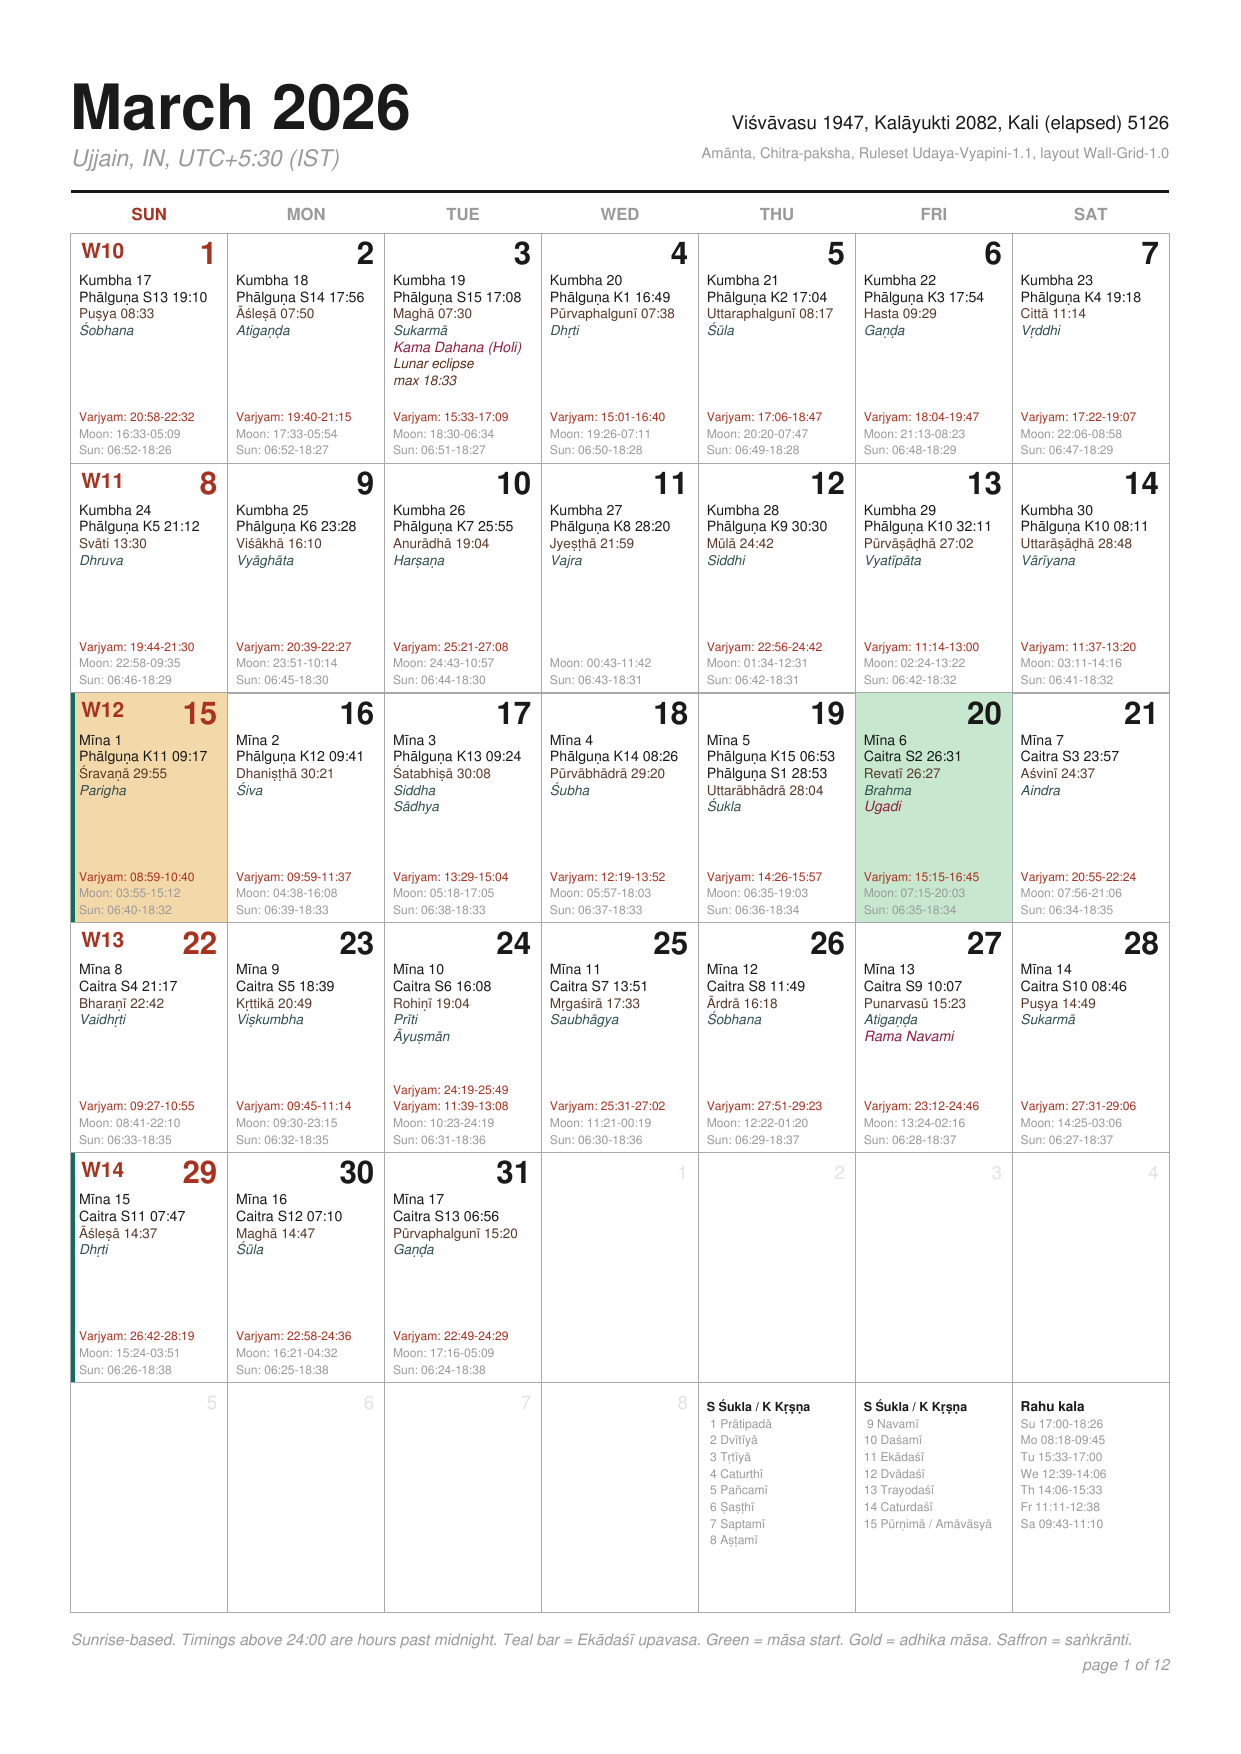
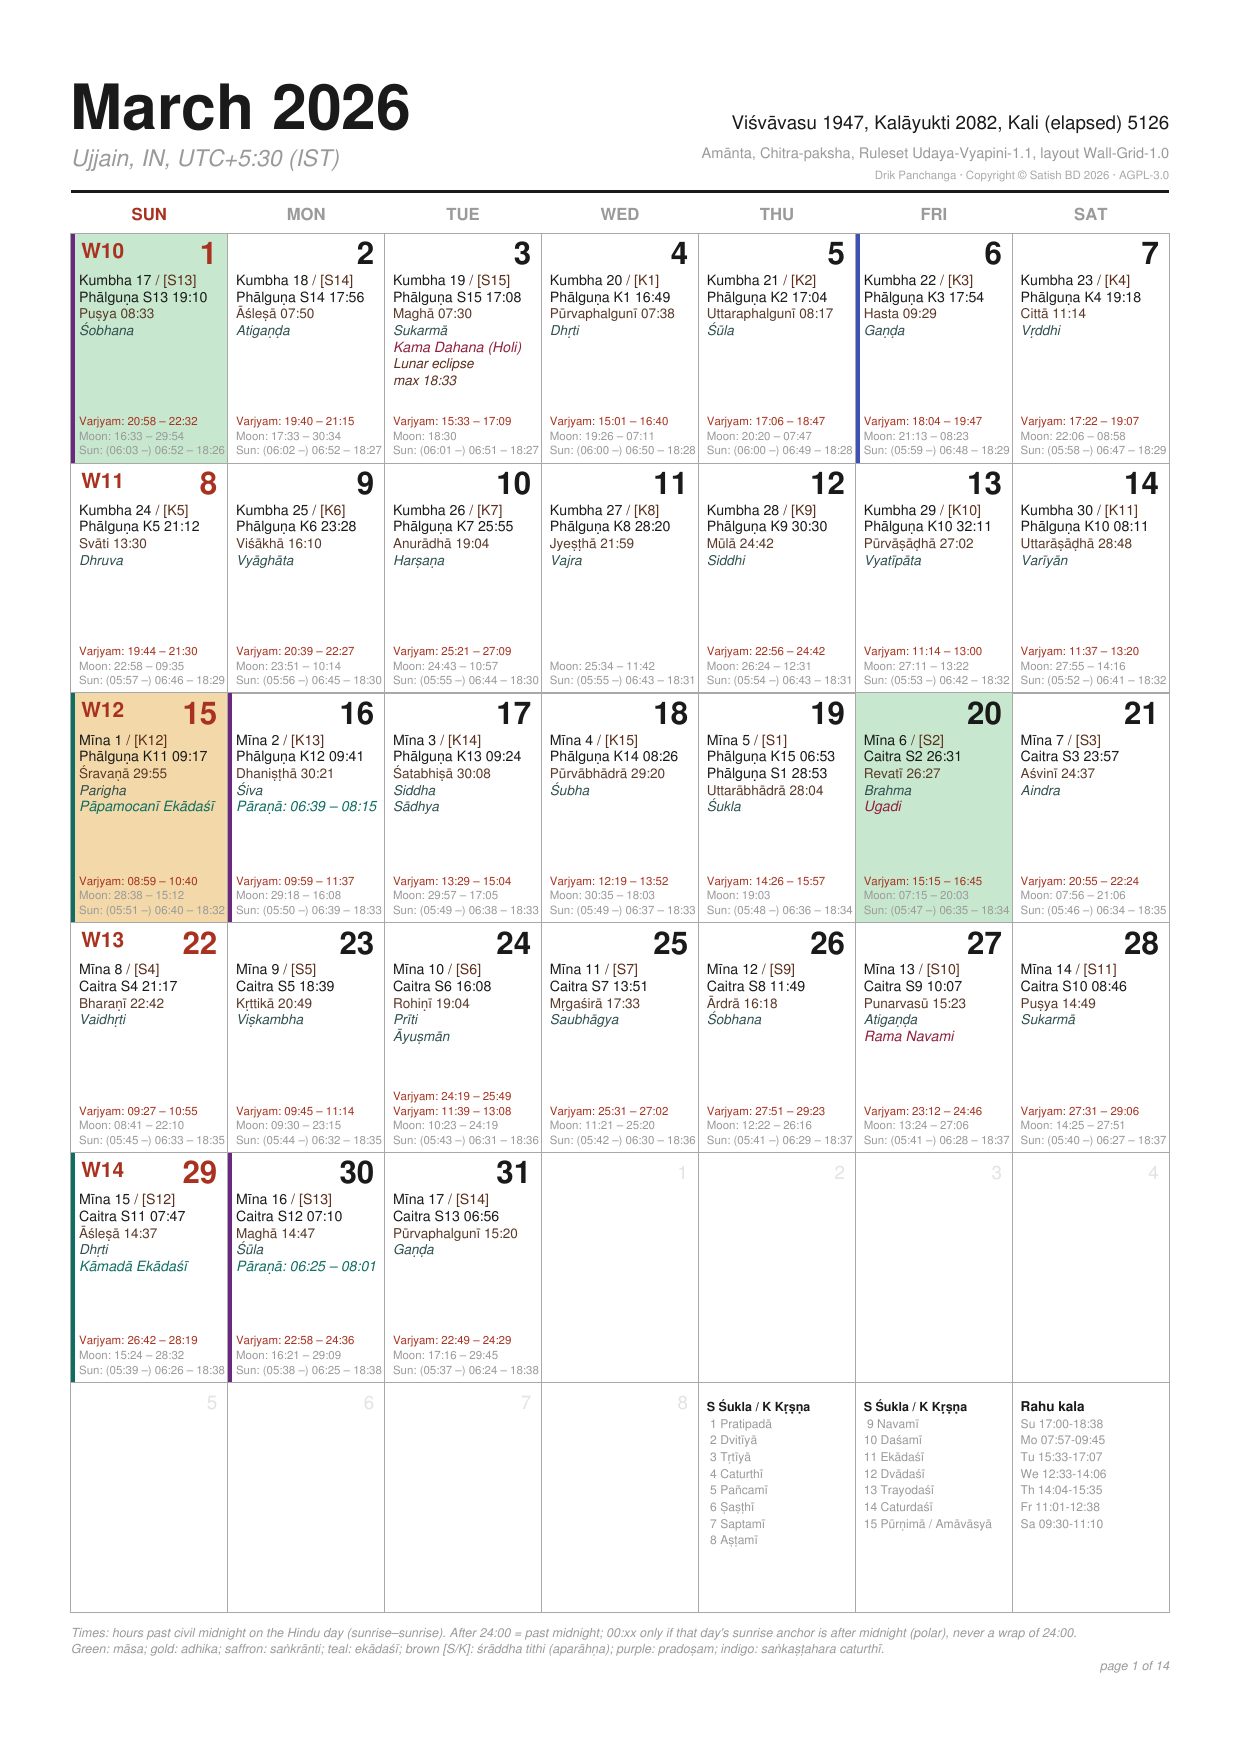
docs(calendar): document the lunar-year span and the year range
- README and docs/README.CALENDARS.md: --start YYYY is the Gregorian
  year holding the lunar year's Ugadi; the span runs through the month
  containing the last Phālguna day, so 12-14 whole months print. First
  month keeps the previous Phālguna and last month the next Chaitra,
  festivals included; consecutive years share one month.
- State the -3300..3300 PDF/ICS range, the sidereal drift that makes a
  few years before about -2950 hold zero or two Ugadis, and that
  --month purnimanta changes labels only, never the span.
- Regenerate the Ujjain screenshots from --start 2026: the one-page
  sample becomes mar2026_apr2027 (March 2026 - April 2027).
- panchanga.py: the lru_cache sizing comment says lunar-year build.
- Add docs/TODO.LUNAR-YEAR-CALENDARS.md, the completed checklist of
  the refactor and its implementation notes.

Assisted-by: qwen3.8-high

diff --git a/panchanga.py b/panchanga.py
@@ -423,7 +423,8 @@ def nakshatra_pada_unequal_system(longitude):
 
 
 # @lru_cache memoizes expensive Swiss Ephemeris calls (longitudes, rise/set,
-# new/full moon). Cache sizes fit one 14-month PDF build while bounding memory
+# new/full moon). Cache sizes fit one lunar-year PDF build (up to 14 printed
+# months plus the day pad) while bounding memory
 # for long-running web servers that serve many distinct (city, date) queries.
 @lru_cache(maxsize=65536)
 def _planet_longitude_cached(ayanamsa, coord_flag, jd, planet):

diff --git a/docs/TODO.LUNAR-YEAR-CALENDARS.md b/docs/TODO.LUNAR-YEAR-CALENDARS.md
@@ -1,0 +1,87 @@
+# TODO: lunar-year PDF calendars
+
+Plan: [PLAN.LUNAR-YEAR-CALENDARS.md](PLAN.LUNAR-YEAR-CALENDARS.md)
+
+## 1. Core helpers (`generate_panchanga_calendar.py`)
+
+- [x] `require_start_year(text) -> int` — `-\d{1,4}` or `\d{4}`; range `-3300 ... 3300`; clear reject of `YYYY-MM`
+- [x] `lunar_year_months(start_year, location, coordinate_selection) -> [(y, m), ...]`
+  - [x] window 1 Nov `Y-1` … 31 Dec `Y`; exactly one Ugadi rule (§2.1, §4.2)
+  - [x] next-Ugadi window, last day = `next_ugadi - 1`, month list via `_month_sequence`
+  - [x] error names the Ugadi dates found (zero or two)
+  - [x] takes `coordinate_calculation_lock`, sets coordinate selection
+- [x] `daily_records_between(first, last, location)`; `daily_records(months, ...)` wraps it
+- [x] delete `require_supported_span`, `CONTEXT_MARGIN_MONTHS`, `context_month_sequence`, `context_month_range`
+
+## 2. Day pad in builders (§4.5)
+
+- [x] one-page: records `first - 32` … `last + 1`; `target_dates` = printed days
+- [x] monthly: `collect_context` reads the same pad
+
+## 3. One-page CLI + builder
+
+- [x] `build_pdf(location, months, output_path, ...)`
+- [x] `default_output_path(location, months, ...)`; names per §3.4
+- [x] `--start YYYY` help text; `main()` resolves once, then path + build
+
+## 4. Monthly CLI + builder
+
+- [x] `build_monthly_pdf(location, months, output_path, ...)`; pages = `len(months)`
+- [x] title / footer total / module docstring
+- [x] `--start YYYY`, `default_monthly_output_path(location, months, ...)`
+
+## 5. ICS + web
+
+- [x] `webapp/ics_service.py`: year in, resolve under lock, BCE 400 stays, docstring
+- [x] `webapp/pdf_service.py`: parse year, resolve, then filename
+- [x] `webapp/app.py`: ICS `start=YYYY`
+- [x] `webapp/cgi_handlers.py`: 405 message
+- [x] `webapp/templates/index.html`: year input (`pattern`), labels, hints, JS default, CSS selector
+
+## 6. Tests
+
+- [x] parser cases (§8.1)
+- [x] resolver fixtures 2026/2027/2028/2029/2030 (§8.2), length invariant, purnimanta no-op
+- [x] builders: columns/pages == `len(months)`, filenames
+- [x] range edges `-3300` / `3300`; zero-or-two-Ugadi errors (§8.8–9)
+- [x] festival outside lunar year (`Ugadi: Mar 20,Apr 07`) (§8.10)
+- [x] day pad cases: solar day 17 on 2026-03-01; 1905 parana (§8.11)
+- [x] rewrite fixtures that used `month_range` / `context_month_range` (`test_pdf_layout`, `test_festival_rules`, `test_monthly_calendar`)
+- [x] `test_custom_location.py`: `BceStartMonthTests` → year tests; `-5000-12` out of range
+- [x] `test_bce_ce_boundary.py`, `test_day_panchanga.py` (`start=9999-12` → 400 from range), `test_pdf_service.py`
+- [x] `test_deep_bce.py`: `DEEPEST = Date(-3301, 11, 1)`
+
+## 7. CI / scripts
+
+- [x] `.github/workflows/ci.yml` `--start 2026` ×2 + expected filenames
+- [x] `scripts/ci_smoke_http.sh` `start=2026` / `start=2023`
+- [x] `scripts/setup_venv.sh`
+
+## 8. Docs + samples
+
+- [x] `README.md`, `docs/README.CALENDARS.md`, `docs/README.pypi.md`
+- [x] `panchanga.py` cache comment (§3.5)
+- [x] regenerate `samples/*.png`, rename mar2026→apr2027 link
+
+## 9. Final sweep
+
+- [x] grep for `YYYY-MM`, `--start 20`, `start=20`, “14 month”, “fourteen”, “12-month”, “twelve”, “12 page”, “First month”, `type="month"` (outside `experimental/`)
+- [x] full `python -m unittest discover`
+- [x] breaking-change commit message (§10)
+
+## Done (deviations noted)
+
+- All items above are complete; 610 tests pass (`python -m unittest discover -s tests -t .`).
+- `require_start_year` also rejects `-3301/3301` *before* any records are
+  computed, as the plan asks.
+- Extra lock added while implementing: `tests/test_lunar_year_calendar.py`
+  covers parser grammar, the five measured fixtures, -3300/3300 edges for
+  every mode, the Revati two-Ugadi / no-Ugadi errors, the 32/1-day pad
+  (solar day 17 at 2026-03-01; 1905 pāraṇā), shared month across consecutive
+  years, and the adhika-Chaitra 2029 start.
+- `lunar_year_boundaries()` is public: callers needing the exact Ugadi and
+  last Phālguna day (tests, future footers) get them without re-scan logic.
+- Samples regenerated at 150 dpi from `--start 2026`:
+  `ujjain_panchanga_mar2026_apr2027.png` (replaces `..._mar2026_mar2027.png`)
+  and `ujjain_monthly_march2026.png`.
+- `attach_option_values` docstring updated to `--start -0500`.

diff --git a/docs/README.CALENDARS.md b/docs/README.CALENDARS.md
@@ -4,10 +4,16 @@ Calendar PDFs — details
 Two PDF layouts share the same computation, colours, and markers:
 
 * **One-page** (`generate_panchanga_calendar.py` / `drik-panchanga-short`):
-  14 consecutive months on a single A4 landscape sheet.
+  one lunar year on a single A4 landscape sheet.
 * **Monthly wall calendar** (`generate_monthly_calendar.py` /
-  `drik-panchanga-long`): one A4 portrait grid page per month, 12 pages,
-  with wider rows suited for reading a full month at a glance.
+  `drik-panchanga-long`): one A4 portrait grid page per month of the lunar
+  year, with wider rows suited for reading a full month at a glance.
+
+Both layouts print the same span, and its length is never fixed. The
+amānta cāndramāna year that `--start YYYY` names runs from the month
+containing that year's **Ugadi** (Chaitra S1; adhika Chaitra when present)
+through the month containing the **last day of Phālguna** — 12, 13 or 14
+whole Gregorian months.
 
 The monthly calendar shares the computation and festival/eclipse markers with
 the one-page calendar, with its own palette.
@@ -18,13 +24,22 @@ Common options
 ```
 --city "Ujjain, IN"      # data/cities.json; country code disambiguates
 --place -13.4,70,5.5     # instead of --city: LAT,LON,TZ (see below)
---start 2026-06          # first month of the span (14 or 12 months)
---start -500-03          # BCE: prefix the astronomical year with '-'
+--start 2026             # Gregorian year holding the lunar year's Ugadi
+--start=-0500            # BCE: prefix the astronomical year with '-'
 --month amanta|purnimanta
 --ayanamsa citra|revati|rohini|pushya|mula|krishnamurti|raman|tropical
 --festivals FILE.cfg
 -o, --output FILE.pdf      # short: -o FILE.pdf
 ```
+
+`--start` takes an astronomical year (year `0000` is 1 BCE) and the lunar year
+in it; the month is never asked for. PDF and iCal years run `-3300 ... 3300`
+for every ayanāṃśa — in sidereal modes Ugadi drifts about a day later every
+70–80 years, so a few years before about -2950 hold two Ugadis (or none) and
+are refused with a message naming the dates. Because whole months print, the
+first month also shows the previous year's Phālguna and the last month the next
+year's Chaitra, with their festivals; consecutive years share one month.
+`--month purnimanta` changes only the māsa labels and badges, not the span.
 
 `--place` takes three comma-separated decimal numbers instead of a city name:
 latitude (negative = south), longitude (east = positive), and the timezone as a
@@ -122,14 +137,15 @@ Festival dates themselves do not flip with `--month`: the catalog uses fixed
 amānta month numbers so a named observance stays on the same civil day in
 both display modes.
 
-Example: Ujjain, March 2026 through March 2027
-----------------------------------------------
+Example: Ujjain, lunar year 2026 (March 2026 – April 2027)
+---------------------------------------------------------
 
-One-page layout:
+`--start 2026` resolves to Ugadi 20 Mar 2026 through 6 Apr 2027, so the
+fourteen printed months are March 2026 to April 2027:
 
-![Ujjain Panchanga, March 2026 through March 2027](../samples/ujjain_panchanga_mar2026_mar2027.png)
+![Ujjain Panchanga, March 2026 through April 2027](../samples/ujjain_panchanga_mar2026_apr2027.png)
 
-Monthly layout (March 2026 page):
+Monthly layout (first page of the same year, March 2026):
 
 <img
   src="../samples/ujjain_monthly_march2026.png"

diff --git a/README.md b/README.md
@@ -106,15 +106,24 @@ Two layouts, usable either from a repository checkout
 (`python generate_*.py ...`) or after `pip install "drik-panchanga[pdf]"`:
 
 ```
-drik-panchanga-short --city Ujjain --start 2026-06    # one-page A4, 14 months
-drik-panchanga-long  --city Ujjain --start 2026-03    # 12-page wall calendar
-drik-panchanga-short --city Ujjain --start -500-03    # BCE: '-' prefixes the year
+drik-panchanga-short --city Ujjain --start 2026    # one-page A4, one lunar year
+drik-panchanga-long  --city Ujjain --start 2026    # wall calendar, one page per month
+drik-panchanga-short --city Ujjain --start=-500    # BCE: '-' prefixes the year
 ```
 
-`--start` takes astronomical years, as the day view does: year `0` is 1 BCE and
-a BCE year is written with a leading minus (`-500-03` is 501 BCE March). A value
-that starts with `-` must follow its flag directly, as above, or be attached
-with `=`.
+`--start YYYY` picks the lunar (cāndramāna) year whose **Ugadi** falls in the
+Gregorian year `YYYY`: printing runs from the month containing that Ugadi
+(Chaitra S1; adhika Chaitra when the year has one) through the month containing
+the last day of Phālguna — 12, 13 or 14 whole Gregorian months, never a fixed
+count. `--month purnimanta` changes māsa labels only; the span stays the amānta
+Chaitra→Phālguna year.
+
+`YYYY` is an astronomical year, as the day view uses: `0000` is 1 BCE and a BCE
+year carries a leading minus (`-0500` is 501 BCE). The PDF and iCal exports
+accept `-3300 ... 3300` (iCal from 1 CE), for every ayanāṃśa; in sidereal modes
+a few years before about -2950 hold zero or two Ugadis and are refused by name.
+A value that starts with `-` must follow its flag directly, as above, or be
+attached with `=`.
 
 Both accept `--month amanta|purnimanta`, `--ayanamsa` (citra, revati, rohini,
 pushya, mula, krishnamurti, raman, tropical), `--festivals FILE.cfg`, and
@@ -138,8 +147,8 @@ Offline, from a repository checkout:
 python -m webapp.app    # then open http://127.0.0.1:8765/
 ```
 
-Enter a city, then look up a day's panchanga, download either calendar PDF,
-or export the 14-month span as iCal (.ics). Alternatively switch to
+Enter a city, then look up a day's panchanga, download either calendar PDF, or
+export the lunar year as iCal (.ics). Alternatively switch to
 Coordinates and enter decimal latitude/longitude plus a UTC offset in hours
 (e.g. `5.5`, no DST) — useful for places missing from `data/cities.json`.
 The app sends them as one `place=LAT,LON,TZ` field, parsed the same way as

diff --git a/docs/README.pypi.md b/docs/README.pypi.md
@@ -14,12 +14,17 @@ pip install "drik-panchanga[pdf]"   # + reportlab, PDF console scripts
 
 With the `[pdf]` extra, two console commands are available:
 
-- `drik-panchanga-short` — one-page A4 landscape panchanga for 14 months
-- `drik-panchanga-long` — 12-page A4 portrait wall calendar
+- `drik-panchanga-short` — one-page A4 landscape panchanga for one lunar year
+- `drik-panchanga-long` — A4 portrait wall calendar, one page per month of the
+  lunar year
+
+`--start YYYY` prints the cāndramāna year whose Ugadi falls in Gregorian year
+`YYYY`, from the month containing Ugadi through the month containing the last
+Phālguna day (12–14 months; years `-3300 ... 3300`).
 
 ```bash
-drik-panchanga-short --city "Bengaluru, IN" --start 2026-06
-drik-panchanga-short --place -13.4,70,5.5 --start 2026-06  # lat, lon, UTC offset hours
+drik-panchanga-short --city "Bengaluru, IN" --start 2026
+drik-panchanga-short --place -13.4,70,5.5 --start 2026  # lat, lon, UTC offset hours
 ```
 
 ## Ephemeris data
